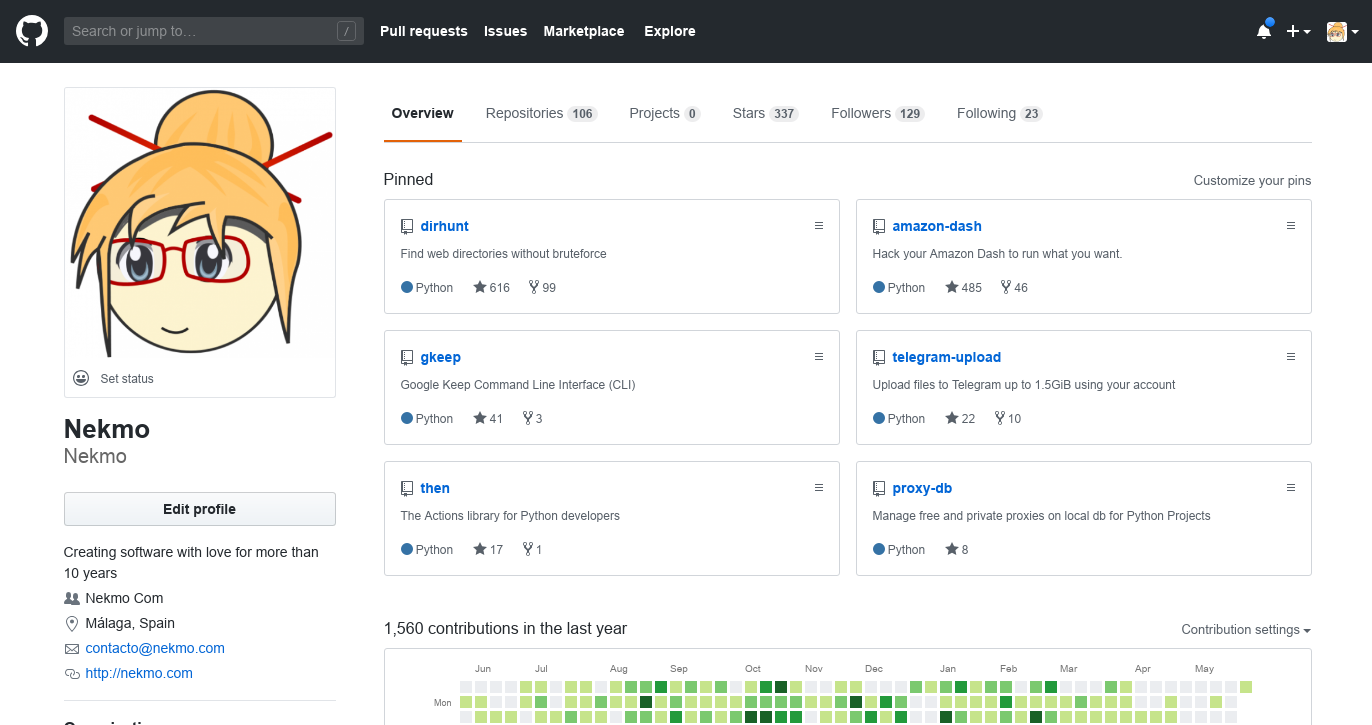
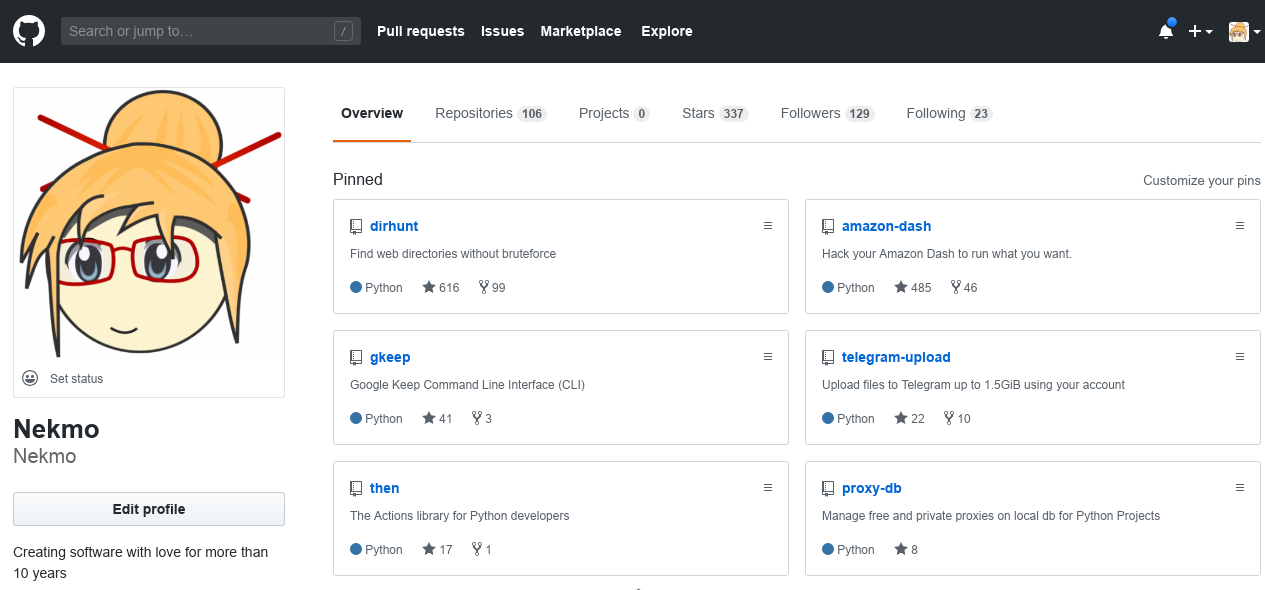
Redimensionadas imágenes.

diff --git a/PITCHME.md b/PITCHME.md
@@ -34,11 +34,11 @@ es software libre y puede encontrarse en Github.
 
 ---?image=assets/image/bg/blue.jpg&position=left&size=30% 100%
 
-@snap[west text-16 text-bold text-italic text-orange span-30]
+@snap[west text-18 text-bold text-italic text-white span-10]
 Más de 600 estrellas
 @snapend
 
-@snap[east fragment]
+@snap[east]
 @img[github-stars span-40](assets/image/github_stars.png)
 @snapend
 
@@ -47,7 +47,7 @@ Ha tenido una buena acogida y a día de hoy se puede considerar un proyecto madu
 
 ---?image=assets/image/bg/blue.jpg&position=right&size=30% 100%
 
-@snap[east span-30 text-11 text-white]
+@snap[east span-10 text-18 text-white]
 ¿En qué se diferencian?
 @snapend
 
